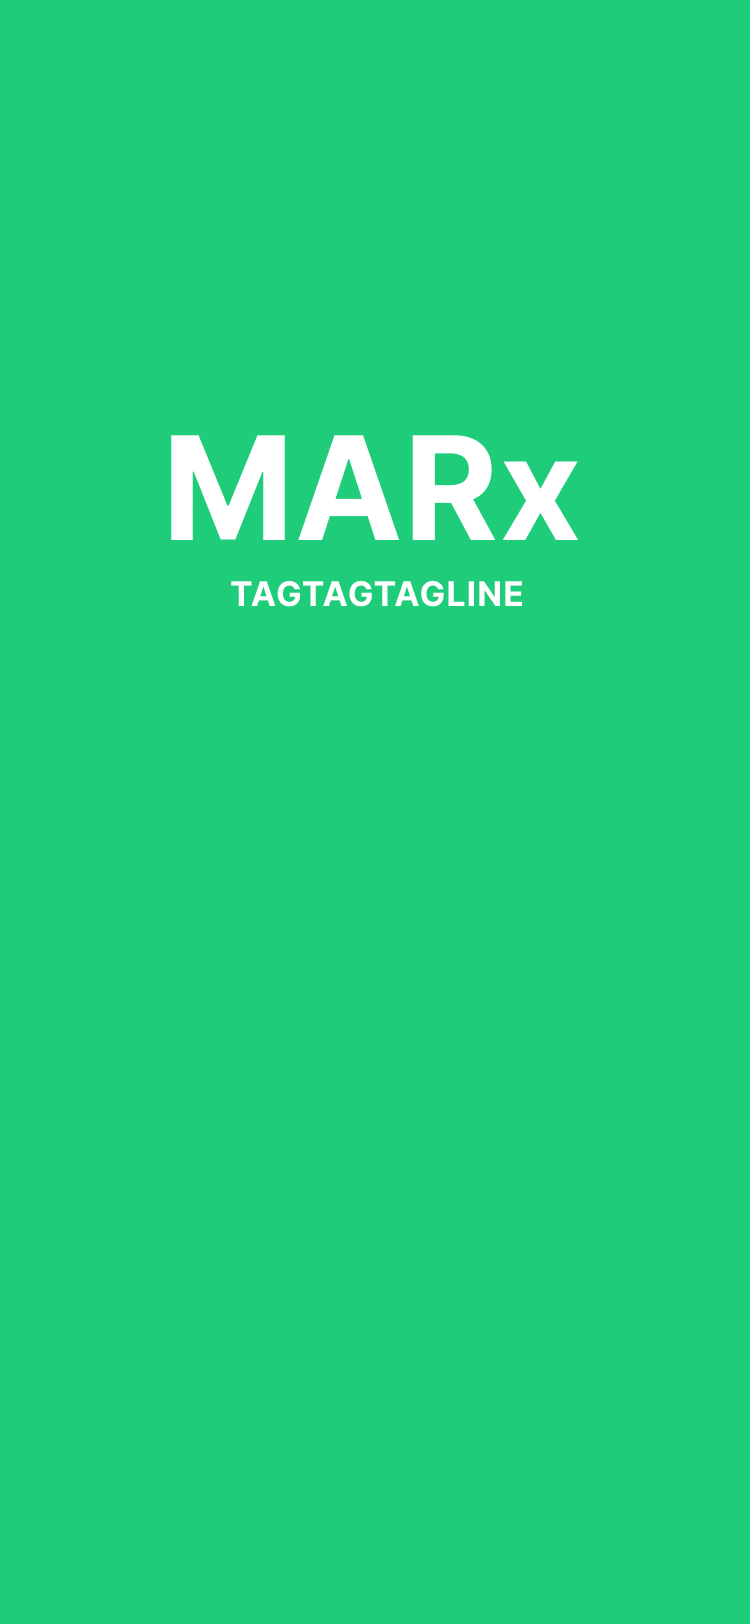
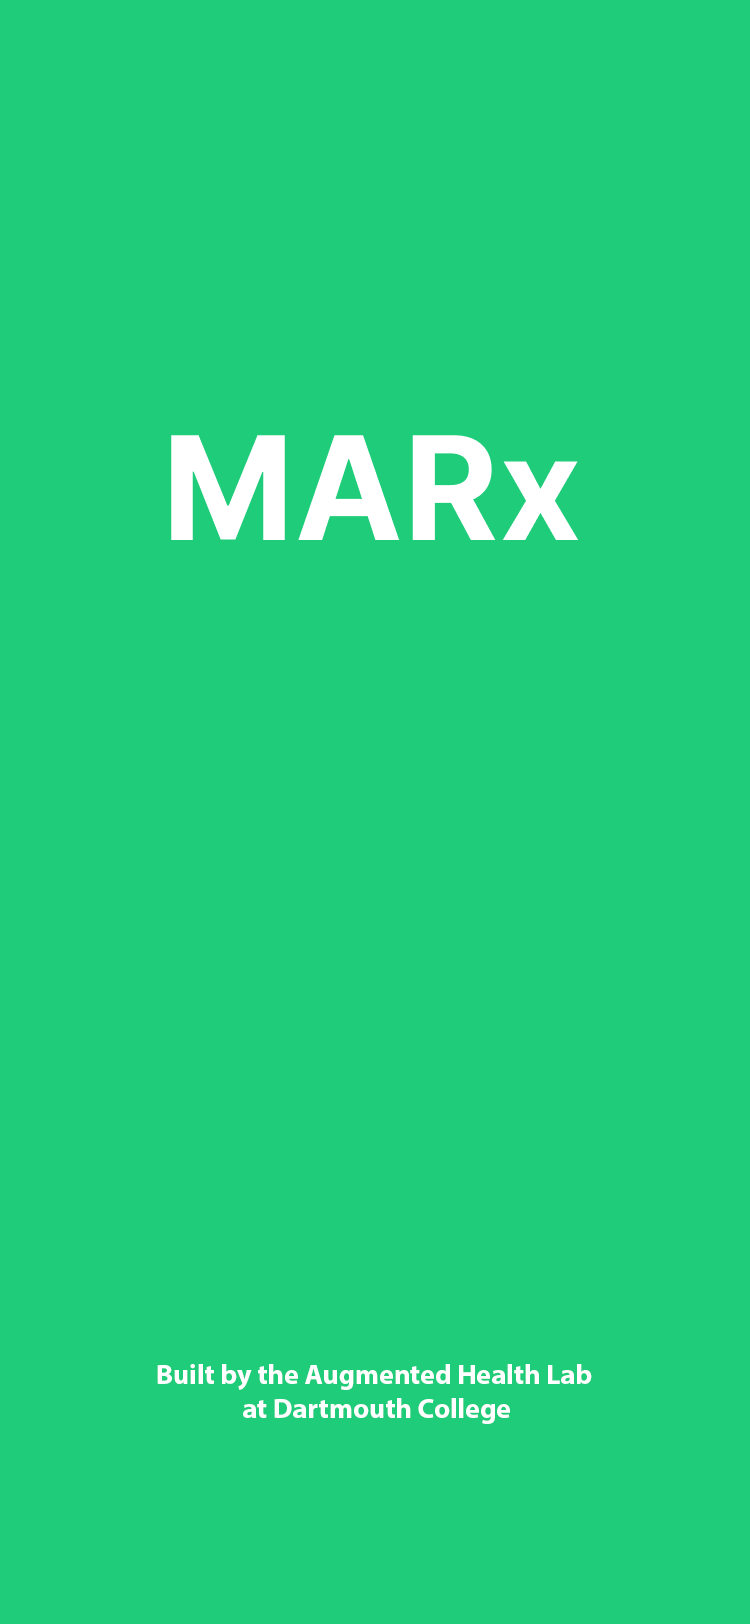
updated v2 with all changes

Changed region(s): [[0.2147, 0.8313, 0.7973, 0.8929], [0.3067, 0.3387, 0.7053, 0.3695]]

diff --git a/gadgets/strings.js b/gadgets/strings.js
@@ -41,15 +41,15 @@ export const reasons = [
 
 //for registration page:
 export const usernameText = "Username *";
-export const ageText = "Age (Optional)";
-export const genderText = "Gender (Optional)";
-export const raceText = "Race/Ethnicity (Optional)";
-export const stateText = "State (Optional)";
-export const educationText = "Highest Level of Education (Optional)";
+export const ageText = "Age";
+export const genderText = "Gender";
+export const raceText = "Race/Ethnicity";
+export const stateText = "State";
+export const educationText = "Highest Level of Education";
 export const jobTitleText = "What is your title? *";
-export const yearExperienceText = "Years of Experience in the Industry (Optional)";
-export const currentEmployerText = "Current Employer (Optional)";
-export const emailAddressReText = "Email Address (Optional)";
+export const yearExperienceText = "Years of Experience in the Industry";
+export const currentEmployerText = "Current Employer";
+export const emailAddressReText = "Email Address";
 export const emailAgreementText = "If you agree to be contacted for research purposes, please enter your email.";
 export const difficultyPrescribe = "Compared to other prescriptions you commonly write, how difficult is it to write an insulin prescription? *";
 export const timeToPrescribe = "How long does it take you to write an insulin prescription? (response in minutes) *";
@@ -71,5 +71,6 @@ export const enterDifficultyText = "Select a Difficulty";
 export const enterTimeText = "Enter Time in Minutes";
 export const enterYearText = "Enter Years in Number";
 
-export const agreementText = "The software may collect information about you and your use of the software, and send that to Augment Health Lab at Dartmouth College. Augment Health Lab may use this information for research purposes. Your data will be strictly kept private. Your use of the software operates as your consent to these practices. This application was built by and is managed by the Augmented Health Lab at Dartmouth College."
+// export const agreementText = "The software may collect information about you and your use of the software, and send that to Augment Health Lab at Dartmouth College. Augment Health Lab may use this information for research purposes. Your data will be strictly kept private. Your use of the software operates as your consent to these practices. This application was built by and is managed by the Augmented Health Lab at Dartmouth College."
+export const agreementText = "This application was built by and is managed by the Augmented Health Lab at Dartmouth College."
 export const agreementTitle = "Before we get started:"

diff --git a/navigation/one_time_stack.js b/navigation/one_time_stack.js
@@ -15,7 +15,7 @@ class OneTimeStack extends Component {
     return (
       <NavigationContainer independent={true}>
         <Stack.Navigator
-                initialRouteName='Agreement'
+                initialRouteName='About you (Page 1)'
                 screenOptions={{
                 headerStyle: {
                     backgroundColor: Colors.primaryGreen.color,
@@ -25,10 +25,10 @@ class OneTimeStack extends Component {
                   headerTitleAlign:'center',
                 }}
               >
-                <Stack.Screen 
+                {/* <Stack.Screen 
                   name="Agreement" 
                   component={Agreement}
-                  options={{headerShown: false}} />
+                  options={{headerShown: false}} /> */}
                 <Stack.Screen 
                   name="About you (Page 1)" 
                   component={PersonalInfo} />

diff --git a/components/agreement.js b/components/agreement.js
@@ -10,10 +10,10 @@ const { width, height } = Dimensions.get("screen");
 class Agreement extends Component {
   render() {
     return (
-      <ScrollView 
-        contentContainerStyle={styles.largeContainer}
-        showsVerticalScrollIndicator={false}
-        >
+      // <ScrollView 
+      //   contentContainerStyle={styles.largeContainer}
+      //   showsVerticalScrollIndicator={false}
+      //   >
           <View style={styles.container}>
             <View style={styles.titleContainer}>
               <Text style={styles.titleText}>{Strings.agreementTitle}</Text>
@@ -32,7 +32,7 @@ class Agreement extends Component {
               />
             </View>
           </View>
-      </ScrollView>
+      // </ScrollView>
     );
   }
 }

diff --git a/components/summary.js b/components/summary.js
@@ -98,12 +98,12 @@ class Summary extends Component {
               style={
                 this.state.calculated === false ? styles.hideStyle: styles.resultTextStyle
               }
-            >Calculated Supply: {this.state.totalUnits} units</Text>
+            >Total Supply: {this.state.totalUnits} units</Text>
             <Text
               style={
                 this.state.calculated === false ? styles.hideStyle: styles.resultTextStyle
               }
-            >Dispense Quantity: {this.state.dispenseQty}</Text>
+            >Dispense Qty: {this.state.dispenseQty}</Text>
           </View>
         </View>
       </View>
